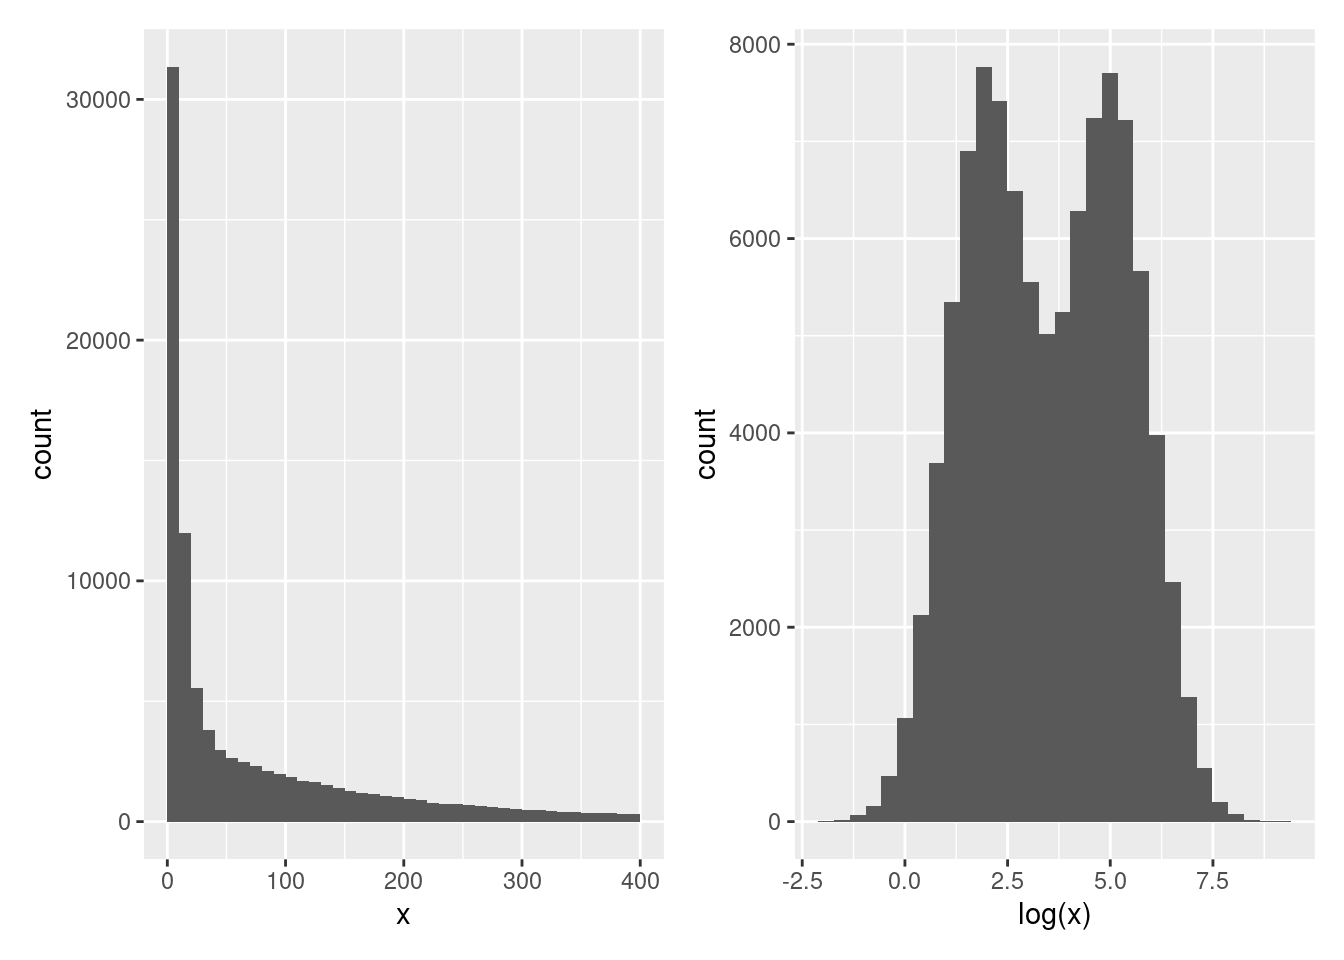
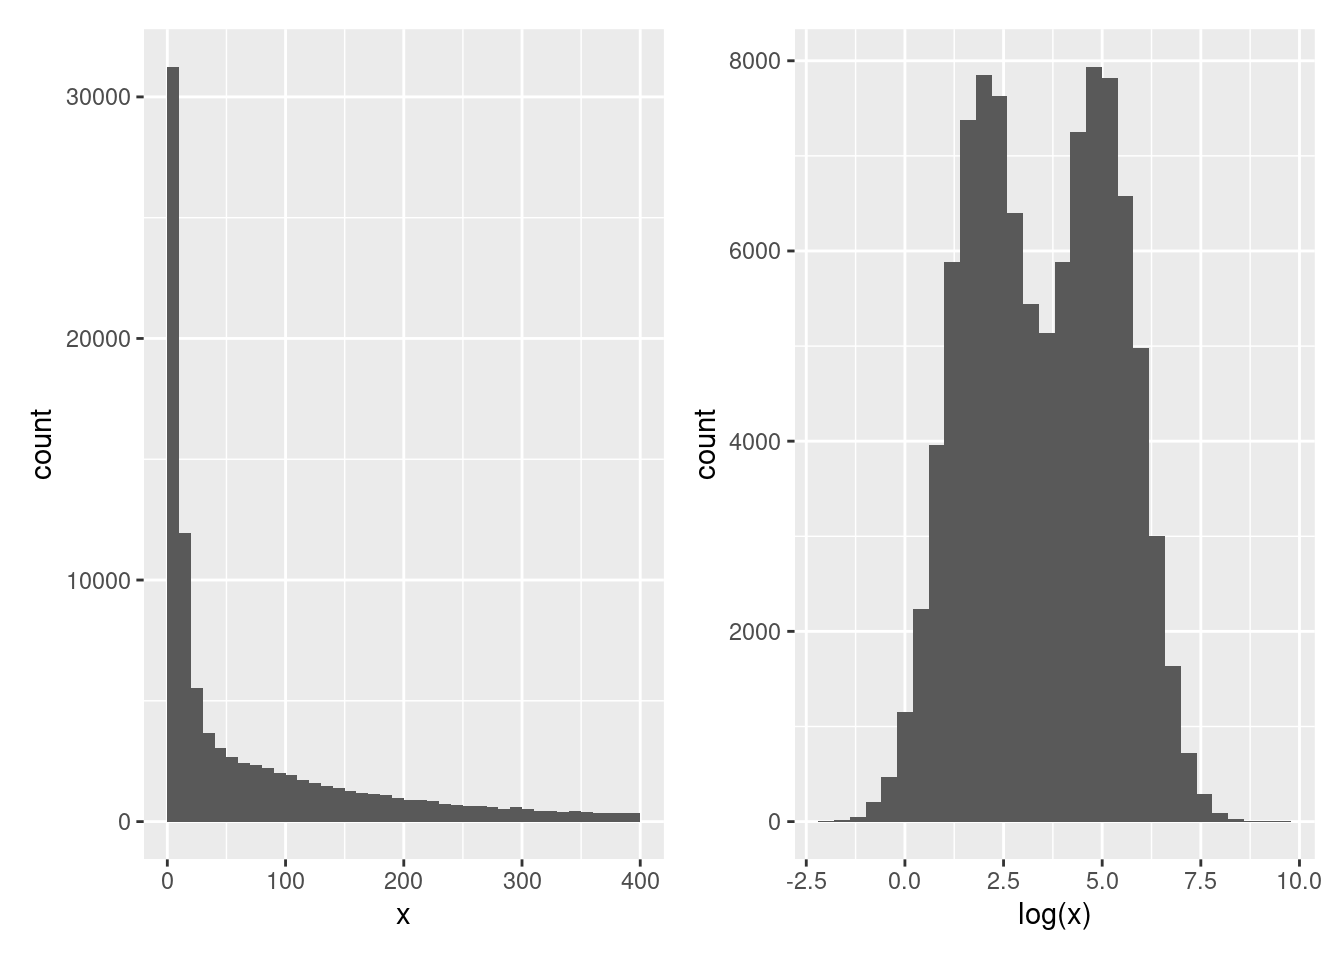
build book

diff --git a/docs/sec-si.html b/docs/sec-si.html
@@ -13,7 +13,7 @@
 
 <meta name="author" content="Laurent Gatto" />
 
-<meta name="date" content="2022-10-14" />
+<meta name="date" content="2022-10-17" />
 
 <script type="text/x-mathjax-config">
 MathJax.Hub.Config({
@@ -226,7 +226,7 @@ div.csl-indent {
 ## other attached packages:
 ##  [1] UpSetR_1.4.0                          Vennerable_3.1.0.9000                
 ##  [3] ComplexHeatmap_2.12.1                 class_7.3-20                         
-##  [5] pRoloc_1.36.0                         BiocParallel_1.30.3                  
+##  [5] pRoloc_1.36.0                         BiocParallel_1.30.4                  
 ##  [7] MLInterfaces_1.76.0                   cluster_2.1.4                        
 ##  [9] annotate_1.74.0                       XML_3.99-0.11                        
 ## [11] AnnotationDbi_1.58.0                  bioDist_1.68.0                       
@@ -274,8 +274,8 @@ div.csl-indent {
 ##  [52] withr_2.5.0              msmbstyle_0.0.19         vroom_1.6.0             
 ##  [55] checkmate_2.1.0          GenomicAlignments_1.32.1 prettyunits_1.1.1       
 ##  [58] mclust_5.4.10            segmented_1.6-0          lazyeval_0.2.2          
-##  [61] crayon_1.5.2             recipes_1.0.1            pkgconfig_2.0.3         
-##  [64] labeling_0.4.2           nlme_3.1-159             vipor_0.4.5             
+##  [61] crayon_1.5.2             recipes_1.0.2            pkgconfig_2.0.3         
+##  [64] labeling_0.4.2           nlme_3.1-160             vipor_0.4.5             
 ##  [67] nnet_7.3-18              globals_0.16.1           rlang_1.0.6             
 ##  [70] lifecycle_1.0.3          LaplacesDemon_16.1.6     filelock_1.0.2          
 ##  [73] affyio_1.66.0            BiocFileCache_2.4.0      modelr_0.1.9            
@@ -285,8 +285,8 @@ div.csl-indent {
 ##  [85] googlesheets4_1.0.1      png_0.1-7                viridisLite_0.4.1       
 ##  [88] rjson_0.2.21             bitops_1.0-7             pROC_1.18.0             
 ##  [91] blob_1.2.3               shape_1.4.6              parallelly_1.32.1       
-##  [94] jpeg_0.1-9               rstatix_0.7.0            ggsignif_0.6.3          
-##  [97] lpSolve_5.6.16           scales_1.2.1             memoise_2.0.1           
+##  [94] jpeg_0.1-9               rstatix_0.7.0            ggsignif_0.6.4          
+##  [97] lpSolve_5.6.17           scales_1.2.1             memoise_2.0.1           
 ## [100] magrittr_2.0.3          
 ##  [ reached getOption("max.print") -- omitted 81 entries ]</code></pre>
 <div id="sec-setup2" class="section level2" number="13.1">
@@ -319,7 +319,7 @@ the following code:</p>
 <a href="sec-ccl.html"><button class="btn btn-default">Previous</button></a>
 </p>
 <p class="build-date">Page built: 
-2022-10-14
+2022-10-17
  using 
 R version 4.2.1 (2022-06-23)
 </p>

diff --git a/docs/sec-vis.html b/docs/sec-vis.html
@@ -13,7 +13,7 @@
 
 <meta name="author" content="Laurent Gatto" />
 
-<meta name="date" content="2022-10-14" />
+<meta name="date" content="2022-10-17" />
 
 <script type="text/x-mathjax-config">
 MathJax.Hub.Config({
@@ -917,7 +917,7 @@ of the data.</p>
 <span id="cb37-9"><a href="sec-vis.html#cb37-9" aria-hidden="true" tabindex="-1"></a>p2 <span class="ot">&lt;-</span>  <span class="fu">ggplot</span>(sim, <span class="fu">aes</span>(<span class="fu">log</span>(x))) <span class="sc">+</span></span>
 <span id="cb37-10"><a href="sec-vis.html#cb37-10" aria-hidden="true" tabindex="-1"></a>    <span class="fu">geom_histogram</span>(<span class="at">bins =</span> <span class="dv">30</span>)</span>
 <span id="cb37-11"><a href="sec-vis.html#cb37-11" aria-hidden="true" tabindex="-1"></a>p1 <span class="sc">+</span> p2</span></code></pre></div>
-<pre><code>## Warning: Removed 8060 rows containing non-finite values (stat_bin).</code></pre>
+<pre><code>## Warning: Removed 8026 rows containing non-finite values (stat_bin).</code></pre>
 <div class="figure">
 <span style="display:block;" id="fig:sim"></span>
 <p class="caption marginnote shownote">
@@ -1163,7 +1163,7 @@ otherwise. Below are some example outputs.</p>
 <a href="sec-obj.html"><button class="btn btn-default">Next</button></a>
 </p>
 <p class="build-date">Page built: 
-2022-10-14
+2022-10-17
  using 
 R version 4.2.1 (2022-06-23)
 </p>

diff --git a/docs/sec-norm.html b/docs/sec-norm.html
@@ -13,7 +13,7 @@
 
 <meta name="author" content="Laurent Gatto" />
 
-<meta name="date" content="2022-10-14" />
+<meta name="date" content="2022-10-17" />
 
 <script type="text/x-mathjax-config">
 MathJax.Hub.Config({
@@ -737,6 +737,20 @@ implications for the normalisation step?</p>
 </p>
 </div>
 </div>
+<div class="question">
+<p class="question-begin">
+► Question
+</p>
+<div class="question-body">
+<p>Generate a dataset composed of 5000 rows and 6 columns, composed of
+values samples from a normal distribution <em>N(0, 1)</em>. Visualise the
+samples distributions. Scale and center the data, visualising the
+samples distributions at each step. Interpret what you see.</p>
+<p class="question-end">
+<span class="fa fa-square-o solution-icon"></span>
+</p>
+</div>
+</div>
 
 </div>
 </div></body></html>
@@ -746,7 +760,7 @@ implications for the normalisation step?</p>
 <a href="sec-mlintro.html"><button class="btn btn-default">Next</button></a>
 </p>
 <p class="build-date">Page built: 
-2022-10-14
+2022-10-17
  using 
 R version 4.2.1 (2022-06-23)
 </p>

diff --git a/docs/index.html b/docs/index.html
@@ -13,7 +13,7 @@
 
 <meta name="author" content="Laurent Gatto" />
 
-<meta name="date" content="2022-10-14" />
+<meta name="date" content="2022-10-17" />
 
 <script type="text/x-mathjax-config">
 MathJax.Hub.Config({
@@ -337,7 +337,7 @@ style</a> <span class="citation">(<label for="tufte-mn-10" class="margin-toggle"
 <a href="sec-refresher.html"><button class="btn btn-default">Next</button></a>
 </p>
 <p class="build-date">Page built: 
-2022-10-14
+2022-10-17
  using 
 R version 4.2.1 (2022-06-23)
 </p>

diff --git a/docs/sec-sl.html b/docs/sec-sl.html
@@ -13,7 +13,7 @@
 
 <meta name="author" content="Laurent Gatto" />
 
-<meta name="date" content="2022-10-14" />
+<meta name="date" content="2022-10-17" />
 
 <script type="text/x-mathjax-config">
 MathJax.Hub.Config({
@@ -1051,7 +1051,7 @@ most reliable assignments one, and setting the unreliable ones to
 <a href="sec-biovis.html"><button class="btn btn-default">Next</button></a>
 </p>
 <p class="build-date">Page built: 
-2022-10-14
+2022-10-17
  using 
 R version 4.2.1 (2022-06-23)
 </p>

diff --git a/docs/sec-biovis.html b/docs/sec-biovis.html
@@ -13,7 +13,7 @@
 
 <meta name="author" content="Laurent Gatto" />
 
-<meta name="date" content="2022-10-14" />
+<meta name="date" content="2022-10-17" />
 
 <script type="text/x-mathjax-config">
 MathJax.Hub.Config({
@@ -491,7 +491,7 @@ number of intersections (default is 40) become useful.</p>
 <a href="sec-ccl.html"><button class="btn btn-default">Next</button></a>
 </p>
 <p class="build-date">Page built: 
-2022-10-14
+2022-10-17
  using 
 R version 4.2.1 (2022-06-23)
 </p>

diff --git a/docs/sec-mlintro.html b/docs/sec-mlintro.html
@@ -13,7 +13,7 @@
 
 <meta name="author" content="Laurent Gatto" />
 
-<meta name="date" content="2022-10-14" />
+<meta name="date" content="2022-10-17" />
 
 <script type="text/x-mathjax-config">
 MathJax.Hub.Config({
@@ -759,7 +759,7 @@ but these are beyond the scope of this course.</p>
 <a href="sec-testing.html"><button class="btn btn-default">Next</button></a>
 </p>
 <p class="build-date">Page built: 
-2022-10-14
+2022-10-17
  using 
 R version 4.2.1 (2022-06-23)
 </p>

diff --git a/docs/sec-obj.html b/docs/sec-obj.html
@@ -13,7 +13,7 @@
 
 <meta name="author" content="Laurent Gatto" />
 
-<meta name="date" content="2022-10-14" />
+<meta name="date" content="2022-10-17" />
 
 <script type="text/x-mathjax-config">
 MathJax.Hub.Config({
@@ -995,7 +995,7 @@ of class <code>SummarizedExperiment</code>.</p>
 <a href="sec-biostrings.html"><button class="btn btn-default">Next</button></a>
 </p>
 <p class="build-date">Page built: 
-2022-10-14
+2022-10-17
  using 
 R version 4.2.1 (2022-06-23)
 </p>

diff --git a/docs/sec-ul.html b/docs/sec-ul.html
@@ -13,7 +13,7 @@
 
 <meta name="author" content="Laurent Gatto" />
 
-<meta name="date" content="2022-10-14" />
+<meta name="date" content="2022-10-17" />
 
 <script type="text/x-mathjax-config">
 MathJax.Hub.Config({
@@ -997,7 +997,7 @@ average marker profiles, such as shown below.</p></li>
 <a href="sec-sl.html"><button class="btn btn-default">Next</button></a>
 </p>
 <p class="build-date">Page built: 
-2022-10-14
+2022-10-17
  using 
 R version 4.2.1 (2022-06-23)
 </p>

diff --git a/docs/sec-refresher.html b/docs/sec-refresher.html
@@ -13,7 +13,7 @@
 
 <meta name="author" content="Laurent Gatto" />
 
-<meta name="date" content="2022-10-14" />
+<meta name="date" content="2022-10-17" />
 
 <script type="text/x-mathjax-config">
 MathJax.Hub.Config({
@@ -370,7 +370,7 @@ state it explicitly in your response.</p>
 <a href="sec-vis.html"><button class="btn btn-default">Next</button></a>
 </p>
 <p class="build-date">Page built: 
-2022-10-14
+2022-10-17
  using 
 R version 4.2.1 (2022-06-23)
 </p>

diff --git a/docs/sec-testing.html b/docs/sec-testing.html
@@ -13,7 +13,7 @@
 
 <meta name="author" content="Laurent Gatto" />
 
-<meta name="date" content="2022-10-14" />
+<meta name="date" content="2022-10-17" />
 
 <script type="text/x-mathjax-config">
 MathJax.Hub.Config({
@@ -1130,7 +1130,7 @@ conclusion now?</li>
 <a href="sec-dimred.html"><button class="btn btn-default">Next</button></a>
 </p>
 <p class="build-date">Page built: 
-2022-10-14
+2022-10-17
  using 
 R version 4.2.1 (2022-06-23)
 </p>

diff --git a/docs/404.html b/docs/404.html
@@ -13,7 +13,7 @@
 
 <meta name="author" content="Laurent Gatto" />
 
-<meta name="date" content="2022-10-14" />
+<meta name="date" content="2022-10-17" />
 
 <script type="text/x-mathjax-config">
 MathJax.Hub.Config({
@@ -206,7 +206,7 @@ the table of contents to find the page you are looking for.</p>
 <p style="text-align: center;">
 </p>
 <p class="build-date">Page built: 
-2022-10-14
+2022-10-17
  using 
 R version 4.2.1 (2022-06-23)
 </p>
